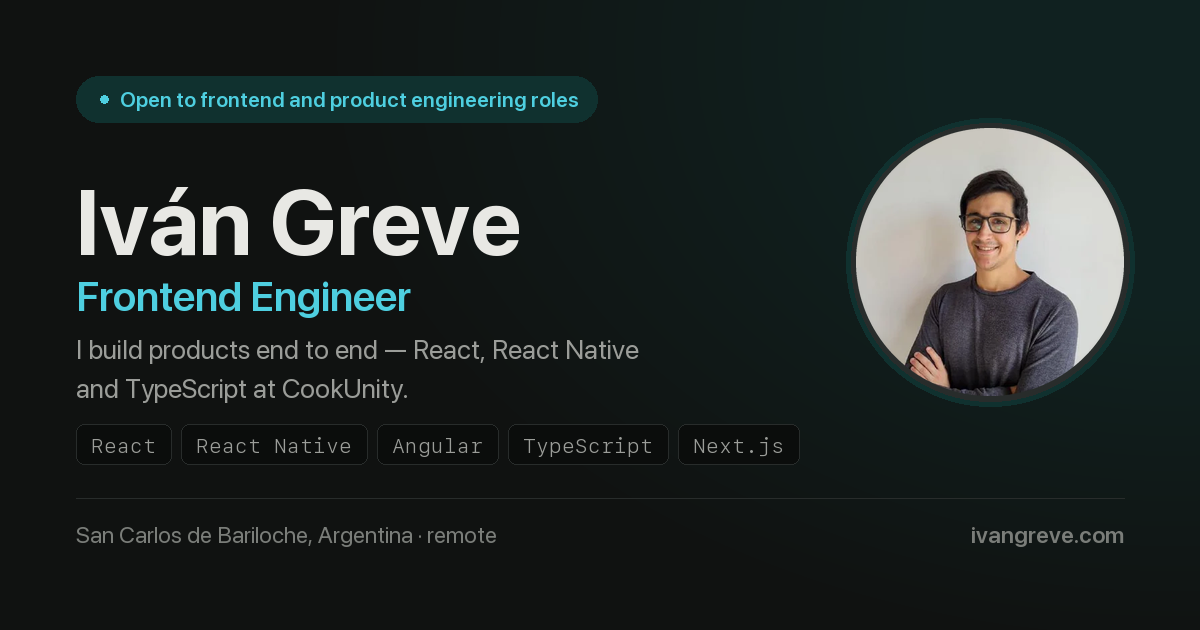
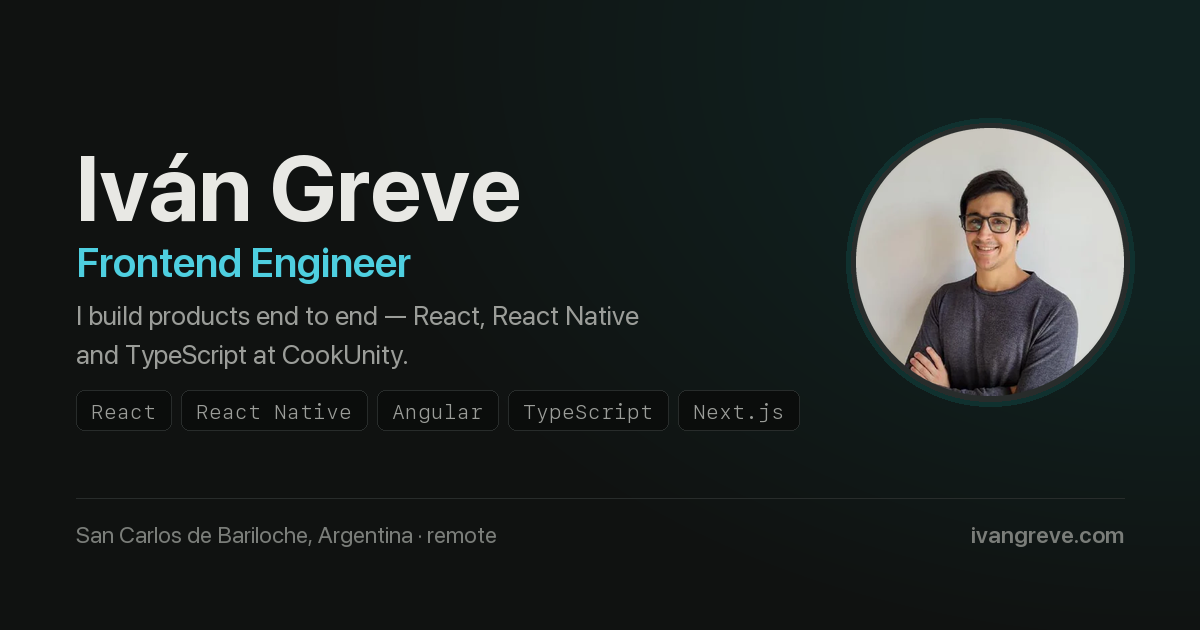
refactor(hero): drop the availability pill
Takes the availability field, the pill styles, the pulsing dot and its keyframes
with it, along with the matching band on the Open Graph card. A permanent
"open to roles" badge dates the page the moment it stops being true.

diff --git a/src/styles/global.css b/src/styles/global.css
@@ -419,38 +419,6 @@ ul {
   height: 0;
 }
 
-.hero__pill {
-  display: inline-flex;
-  align-items: center;
-  gap: 0.5rem;
-  padding: 0.3rem 0.75rem 0.3rem 0.6rem;
-  border-radius: 999px;
-  background: var(--accent-soft);
-  color: var(--accent-text);
-  font-size: 0.8rem;
-  font-weight: 570;
-  margin-bottom: 1.5rem;
-}
-
-.hero__dot {
-  width: 7px;
-  height: 7px;
-  border-radius: 50%;
-  background: var(--accent);
-  flex: none;
-  animation: pulse 2.4s ease-in-out infinite;
-}
-
-@keyframes pulse {
-  0%,
-  100% {
-    opacity: 1;
-  }
-  50% {
-    opacity: 0.35;
-  }
-}
-
 .hero__name {
   font-size: clamp(2.5rem, 8vw, 4rem);
   letter-spacing: -0.035em;
@@ -1124,8 +1092,7 @@ ul {
   .hero__links,
   .contact__actions,
   .project__links,
-  .skip,
-  .hero__pill .hero__dot {
+  .skip {
     display: none !important;
   }
 

diff --git a/src/data/es.ts b/src/data/es.ts
@@ -19,7 +19,6 @@ export const es: ResumeData = {
     'Antes: Technical Lead sobre un monolito Angular en agronegocios, cinco años cofundando un producto de Big Data e IoT, y cuatro años de full stack .NET. El frontend es donde mejor trabajo — pero puse en producción cada capa que hay debajo, y eso se nota en las decisiones que tomo.',
   ],
 
-  availability: 'Disponible para posiciones de frontend y product engineering',
 
   email: 'ivangreve@gmail.com',
   links: [

diff --git a/src/data/en.ts b/src/data/en.ts
@@ -19,7 +19,6 @@ export const en: ResumeData = {
     'Before that: Technical Lead on an Angular monolith in agribusiness, five years co-founding a Big Data and IoT product, and four years of .NET full stack. The frontend is where I do my best work — but I have shipped every layer under it, and it shows in the decisions I make.',
   ],
 
-  availability: 'Open to frontend and product engineering roles',
 
   email: 'ivangreve@gmail.com',
   links: [

diff --git a/src/data/types.ts b/src/data/types.ts
@@ -95,7 +95,6 @@ export interface ResumeData {
   location: string;
   /** Two or three sentences. The positioning statement. */
   intro: string[];
-  availability: string;
 
   links: Link[];
   email: string;

diff --git a/scripts/make-og-image.py b/scripts/make-og-image.py
@@ -119,16 +119,9 @@ def main() -> None:
 
     paste_portrait(img)
 
-    y = PAD
-
-    # Availability pill
-    pill_font = sans(21, "Semibold")
-    pill_text = "Open to frontend and product engineering roles"
-    pill_w = text_width(d, pill_text, pill_font) + 62
-    rounded(d, [PAD, y, PAD + pill_w, y + 46], radius=23, fill=ACCENT_SOFT)
-    d.ellipse([PAD + 24, y + 19, PAD + 32, y + 27], fill=ACCENT)
-    d.text((PAD + 44, y + 23), pill_text, font=pill_font, fill=ACCENT, anchor="lm")
-    y += 46 + 44
+    # Vertically centred against the portrait now that the availability pill is
+    # gone — without it the block sat high and left a gap under the footer rule.
+    y = 132
 
     # Name
     name_font = sans(92, "Bold")

diff --git a/scripts/contrast-audit.py b/scripts/contrast-audit.py
@@ -86,7 +86,6 @@ CHECKS: list[tuple[str, str, str, float]] = [
     ("cert issuer", "text-faint", "bg", AA_TEXT),
     ("footer", "text-faint", "bg", AA_TEXT),
     ("links", "accent-text", "bg", AA_TEXT),
-    ("availability pill", "accent-text", "accent-soft", AA_TEXT),
     ("chip text", "text-muted", "bg-sunken", AA_TEXT),
     ("primary chip", "accent-text", "accent-soft", AA_TEXT),
     ("card copy", "text-muted", "bg-raised", AA_TEXT),
